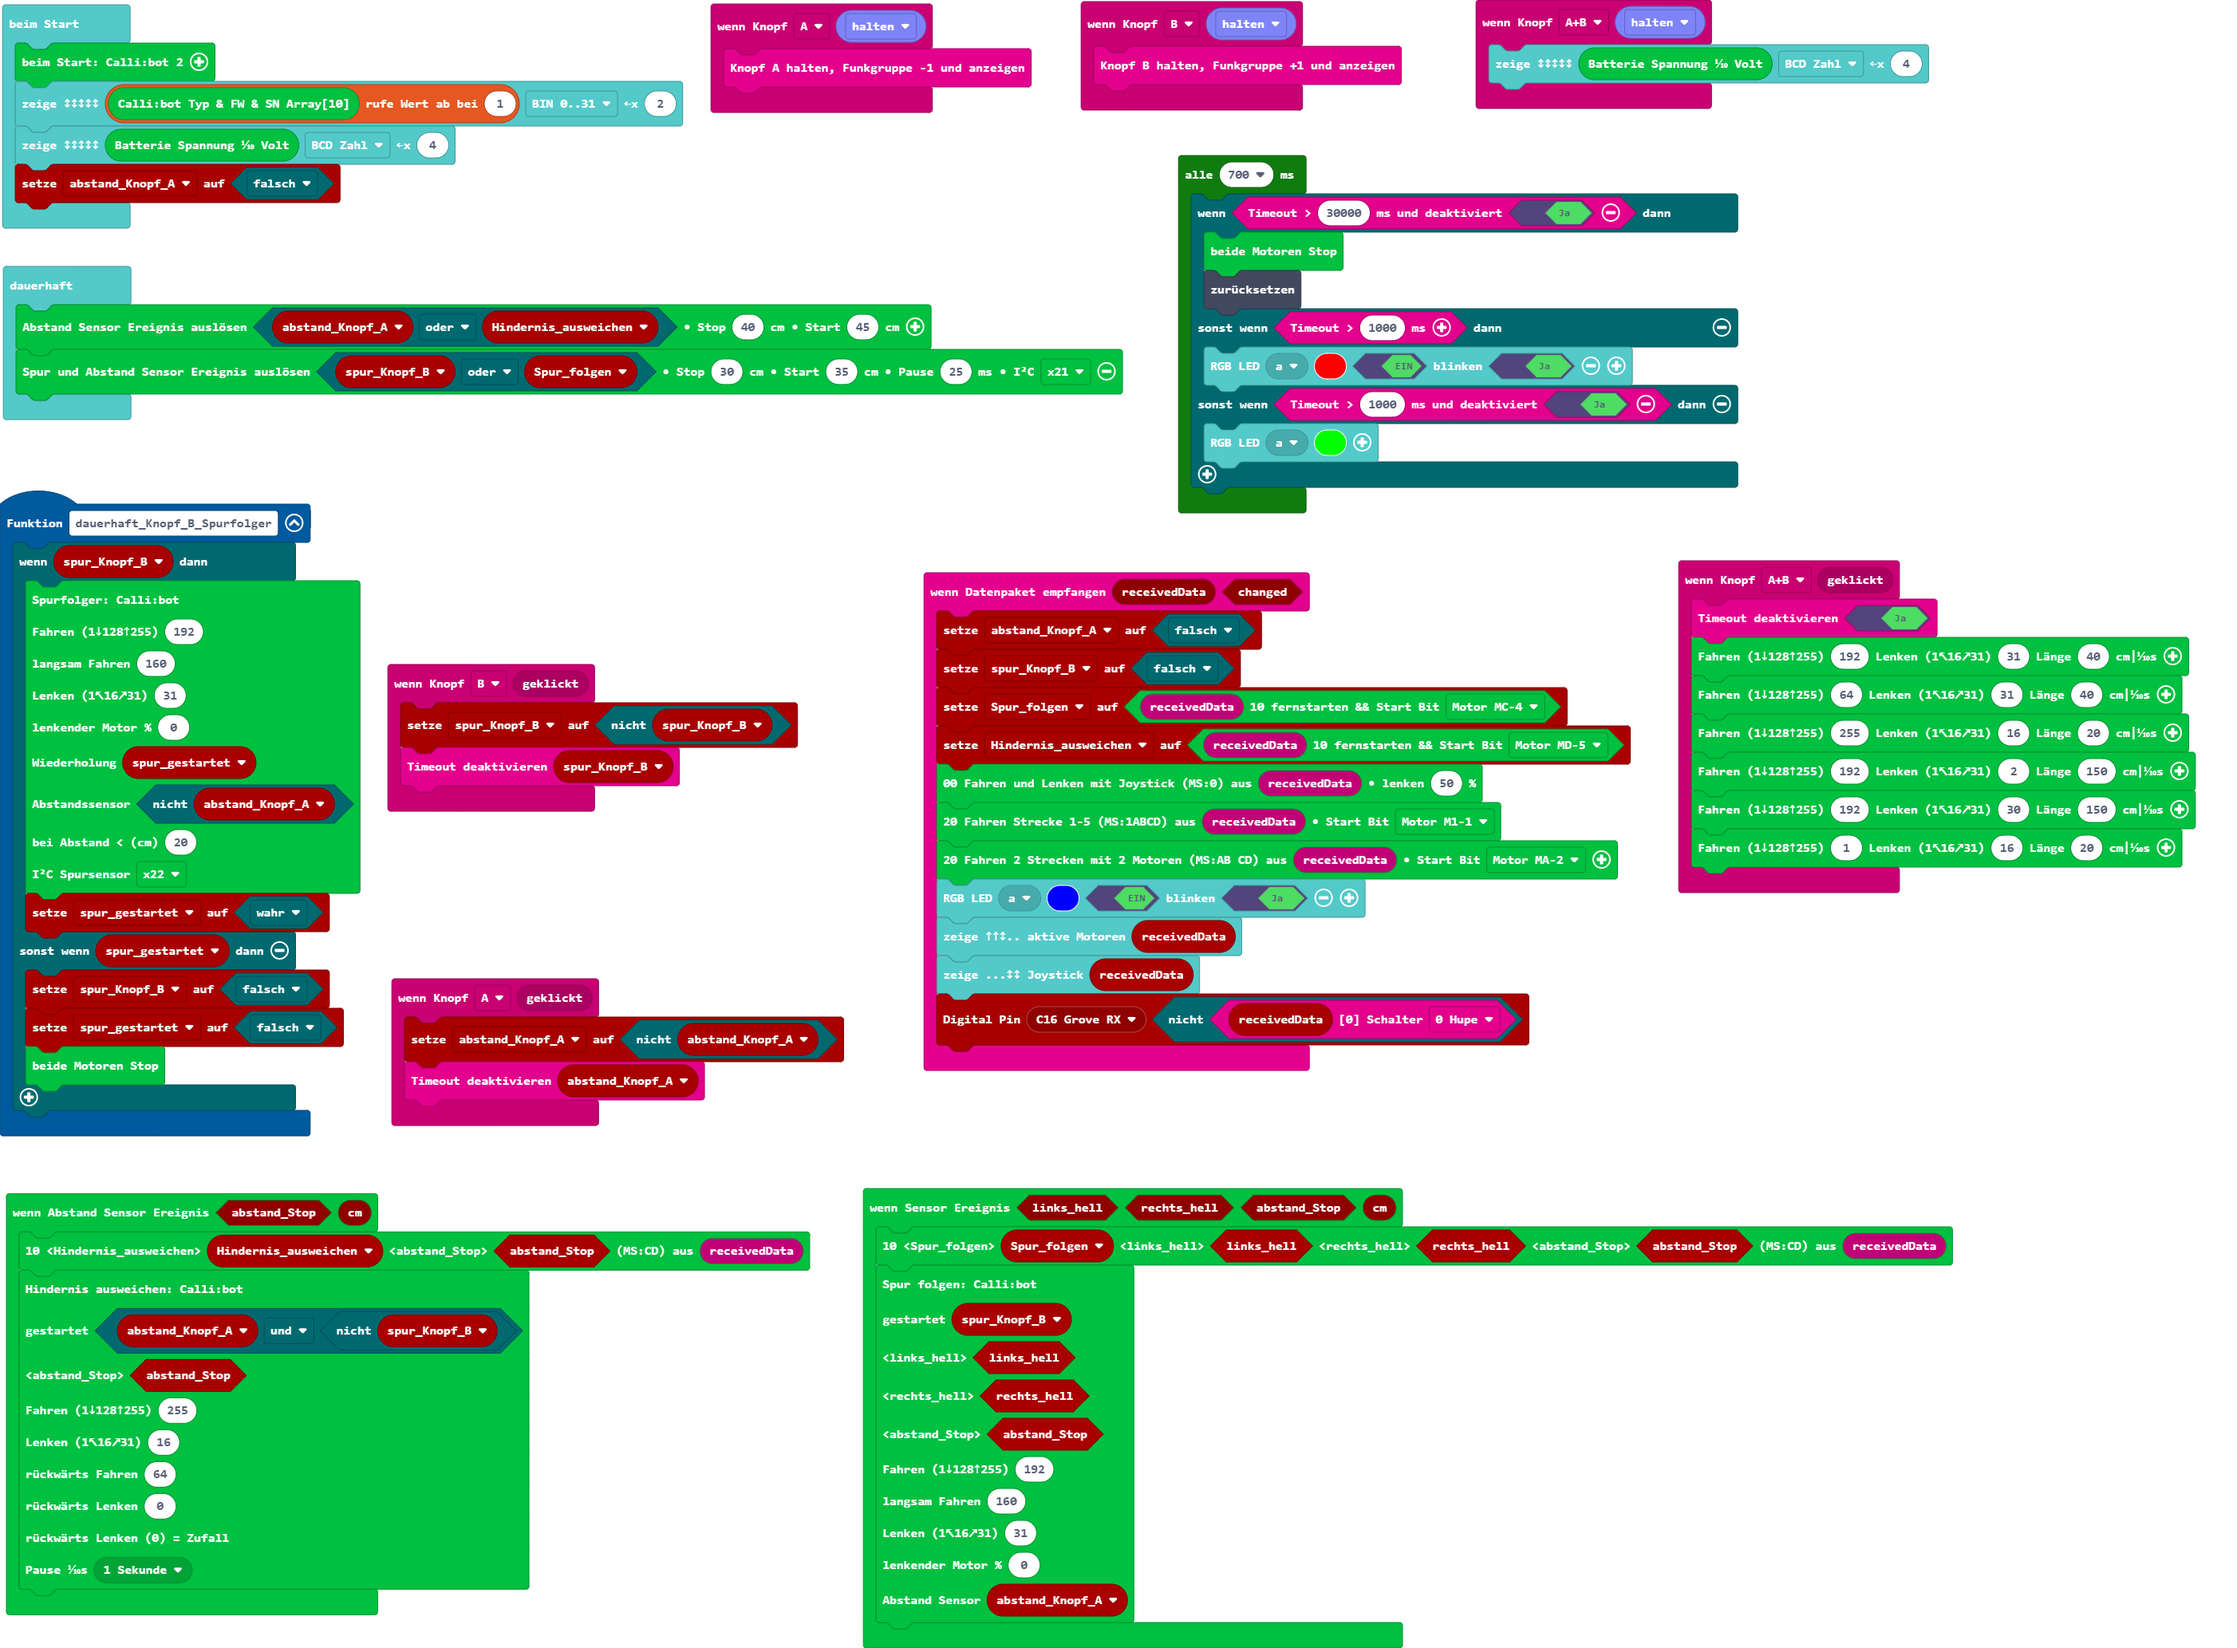
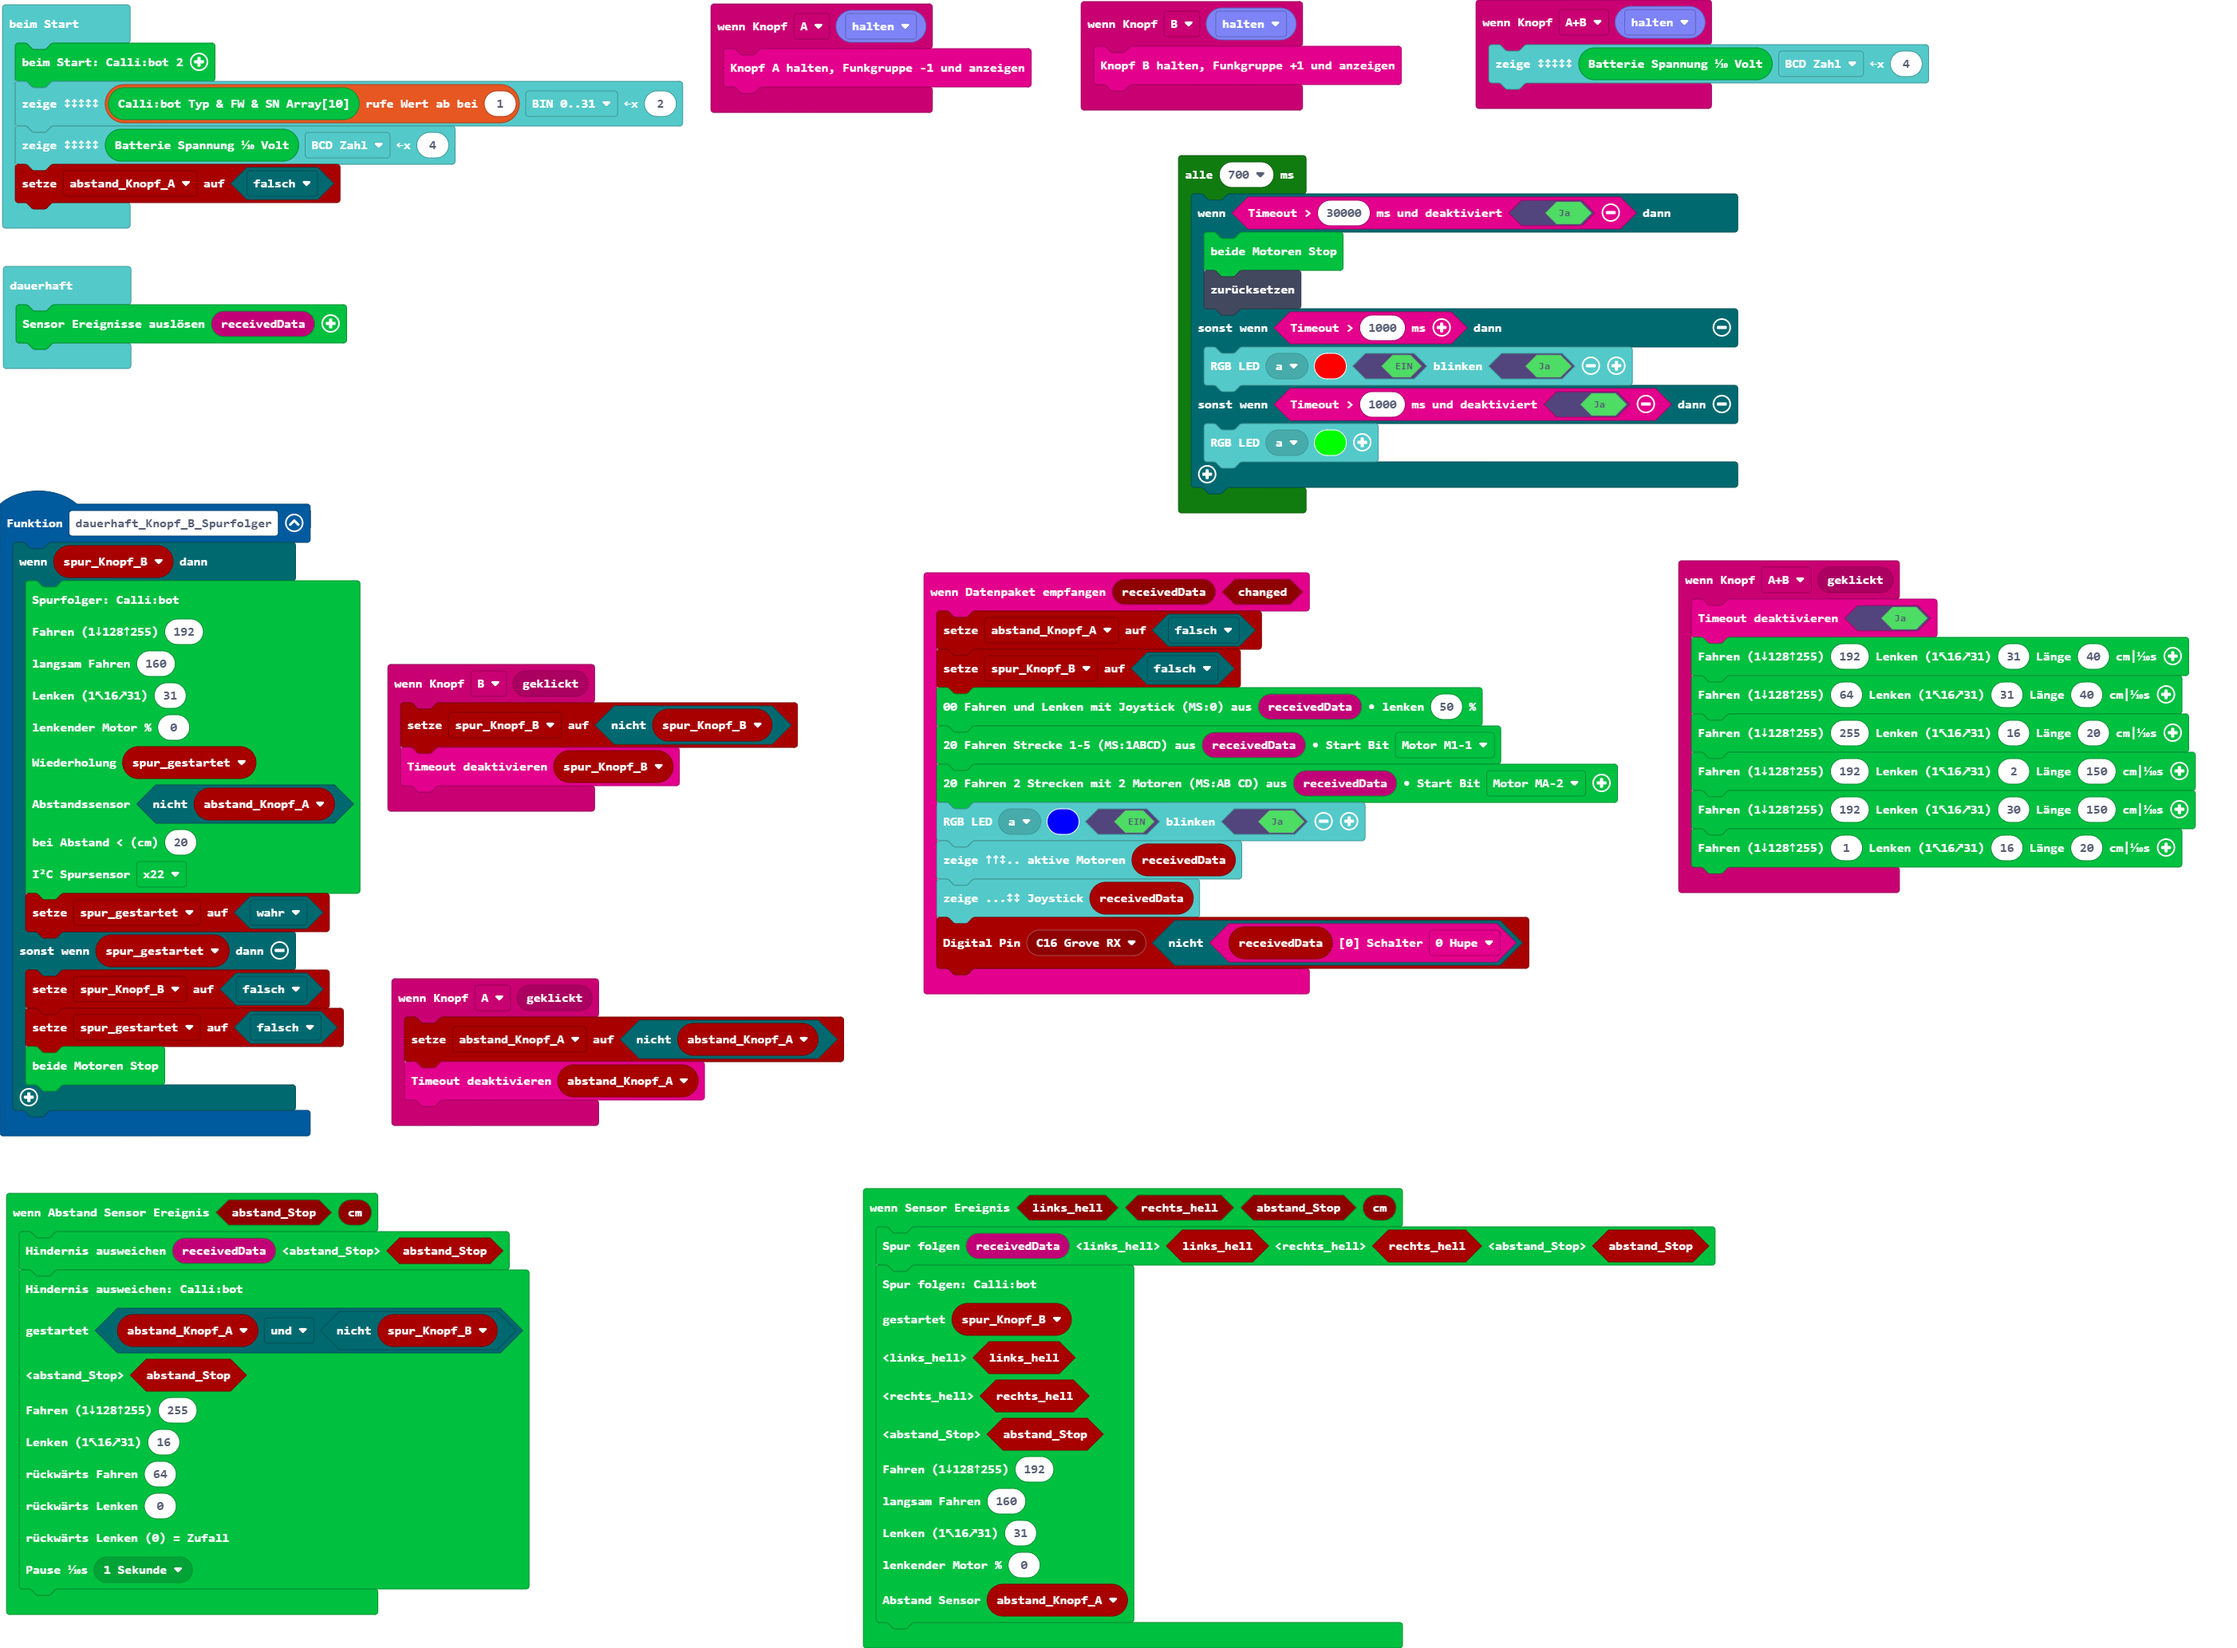
Aktualisiere pxt.json, main.blocks, main.ts

diff --git a/main.ts b/main.ts
@@ -15,7 +15,7 @@ input.onButtonEvent(Button.AB, input.buttonEventClick(), function () {
     cb2.fahreStrecke(1, 16, 20)
 })
 cb2.onAbstandEvent(function (abstand_Stop, cm) {
-    cb2.buffer_Hindernis_ausweichen(Hindernis_ausweichen, abstand_Stop, btf.btf_receivedBuffer19())
+    cb2.buffer_Hindernis_ausweichen(btf.btf_receivedBuffer19(), abstand_Stop)
     cb2.event_Hindernis_ausweichen(
     abstand_Knopf_A && !(spur_Knopf_B),
     abstand_Stop,
@@ -36,8 +36,6 @@ input.onButtonEvent(Button.B, btf.buttonEventValue(ButtonEvent.Hold), function (
 btf.onReceivedDataChanged(function (receivedData, changed) {
     abstand_Knopf_A = false
     spur_Knopf_B = false
-    Spur_folgen = cb2.set_Spur_folgen(btf.btf_receivedBuffer19(), btf.e3aktiviert.mc)
-    Hindernis_ausweichen = cb2.set_Hindernis_ausweichen(btf.btf_receivedBuffer19(), btf.e3aktiviert.md)
     cb2.fahreJoystick(btf.btf_receivedBuffer19(), 50)
     cb2.fahrplanBuffer5Strecken(btf.btf_receivedBuffer19(), btf.e3aktiviert.m1)
     cb2.fahrplanBuffer2x2Motoren(btf.btf_receivedBuffer19(), btf.e3aktiviert.ma)
@@ -47,7 +45,7 @@ btf.onReceivedDataChanged(function (receivedData, changed) {
     pins.pinDigitalWrite(pins.pins_eDigitalPins(pins.eDigitalPins.C16), !(btf.getSchalter(receivedData, btf.e0Schalter.b0)))
 })
 cb2.onSensorEvent(function (links_hell, rechts_hell, abstand_Stop, cm) {
-    cb2.buffer_Spur_folgen(Spur_folgen, links_hell, rechts_hell, abstand_Stop, btf.btf_receivedBuffer19())
+    cb2.buffer_Spur_folgen(btf.btf_receivedBuffer19(), links_hell, rechts_hell, abstand_Stop)
     cb2.event_Spur_folgen(
     spur_Knopf_B,
     links_hell,
@@ -83,17 +81,14 @@ input.onButtonEvent(Button.A, btf.buttonEventValue(ButtonEvent.Hold), function (
     btf.buttonAhold()
 })
 let spur_gestartet = false
-let Spur_folgen = false
 let spur_Knopf_B = false
-let Hindernis_ausweichen = false
 let abstand_Knopf_A = false
 cb2.beimStart()
 btf.zeigeBIN(cb2.readVersionArray()[1], btf.ePlot.bin, 2)
 btf.zeigeBIN(cb2.readSpannung(), btf.ePlot.bcd, 4)
 abstand_Knopf_A = false
 basic.forever(function () {
-    cb2.raiseAbstandEvent(abstand_Knopf_A || Hindernis_ausweichen, 40, 45)
-    cb2.raiseSensorEvent(spur_Knopf_B || Spur_folgen, 30, 35, 25, cb2.eI2C.x21)
+    cb2.raiseBufferEvents(btf.btf_receivedBuffer19())
 })
 loops.everyInterval(700, function () {
     if (btf.timeout(30000, true)) {
